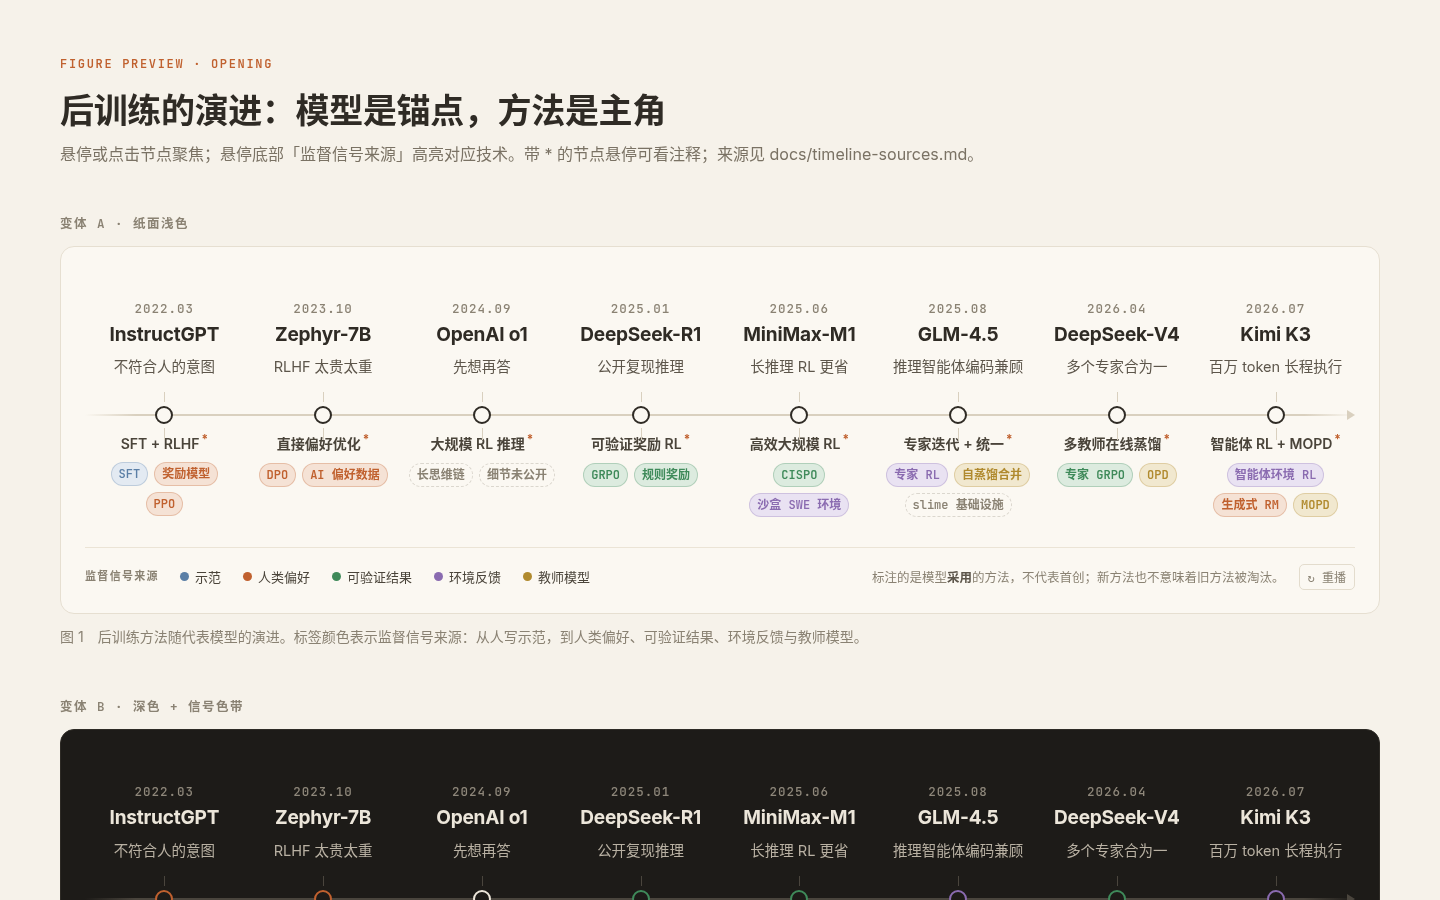
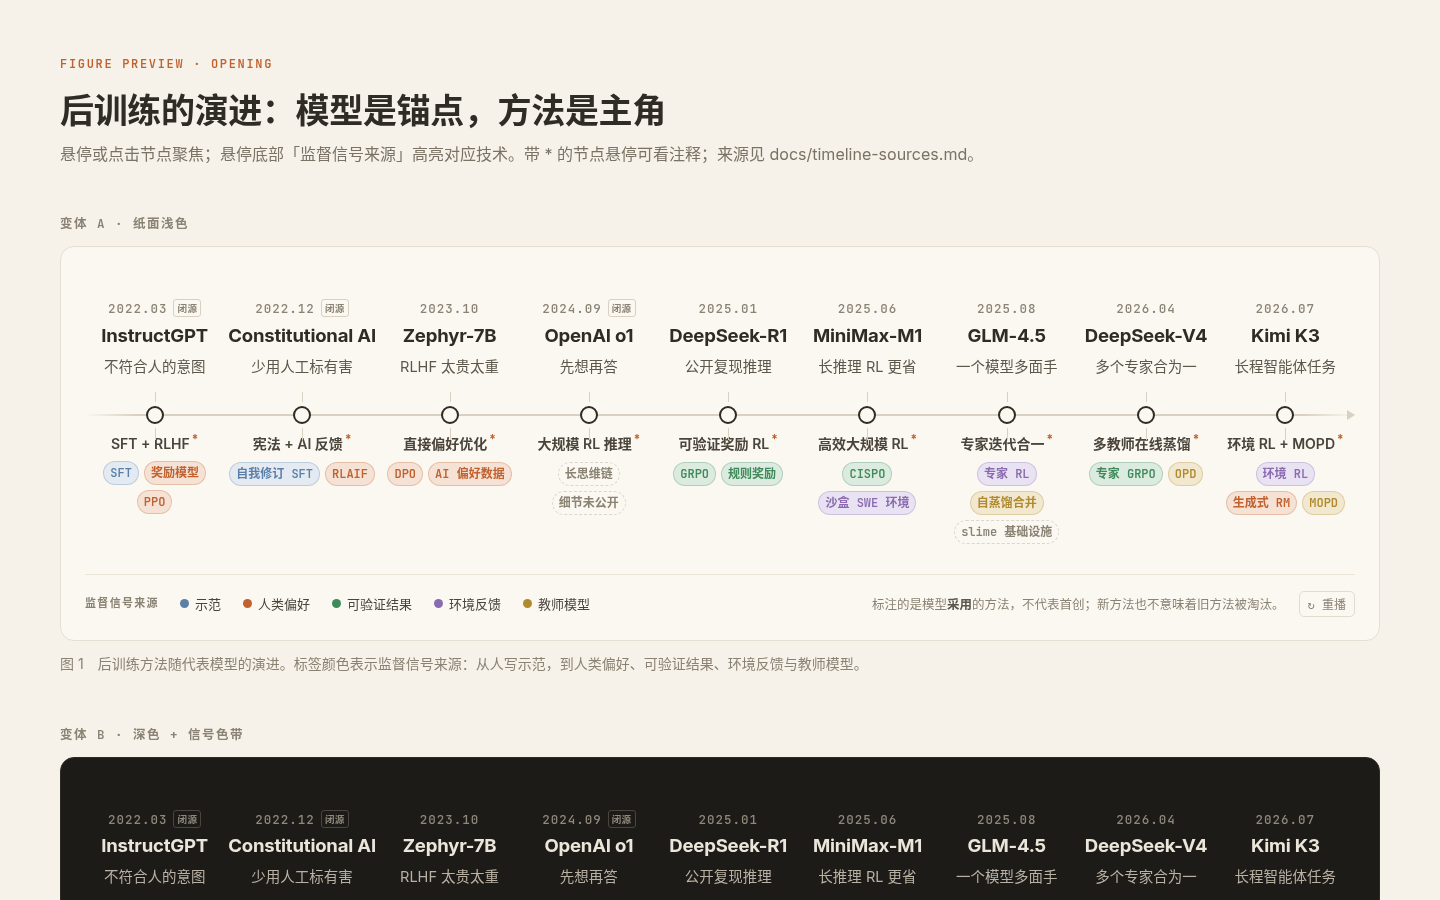
Timeline: add Constitutional AI node, closed-source marker

diff --git a/src/data/timeline.ts b/src/data/timeline.ts
@@ -8,17 +8,20 @@ export const SIGNALS: Record<Signal, { label: string; desc: string; color: strin
   teacher: { label: '教师模型', desc: '更强模型给逐 token 指导', color: '#b08a2e', soft: '#f1e8cf' },
 };
 export type Tech = { name: string; signal?: Signal };   // 无 signal = 未公开/不归类（灰色）
-export type TLNode = { id: string; model: string; date: string; problem: string; strategy: string; techs: Tech[]; note?: string };
+export type TLNode = { id: string; model: string; date: string; problem: string; strategy: string; techs: Tech[]; note?: string; closed?: boolean };  // closed = 闭源厂商公开的方法
 export const PLACEHOLDER = false;
 // 来源与引文见 docs/timeline-sources.md。标注的是该模型「采用」的方法，不是发明。
 export const NODES: TLNode[] = [
-  { id: 'instructgpt', model: 'InstructGPT', date: '2022.03', problem: '不符合人的意图', strategy: 'SFT + RLHF',
+  { id: 'instructgpt', closed: true, model: 'InstructGPT', date: '2022.03', problem: '不符合人的意图', strategy: 'SFT + RLHF',
     techs: [{ name: 'SFT', signal: 'demo' }, { name: '奖励模型', signal: 'pref' }, { name: 'PPO', signal: 'pref' }],
     note: 'RLHF 本身更早（Christiano 2017 等）；这里是它用于指令模型的代表' },
+  { id: 'cai', closed: true, model: 'Constitutional AI', date: '2022.12', problem: '少用人工标有害', strategy: '宪法 + AI 反馈',
+    techs: [{ name: '自我修订 SFT', signal: 'demo' }, { name: 'RLAIF', signal: 'pref' }],
+    note: 'Anthropic：模型按宪法原则自我批评并修订回答后做 SFT；再由模型给出偏好标签训练 PM，用 RL（RLAIF）。偏好来自 AI 而非人工' },
   { id: 'zephyr', model: 'Zephyr-7B', date: '2023.10', problem: 'RLHF 太贵太重', strategy: '直接偏好优化',
     techs: [{ name: 'DPO', signal: 'pref' }, { name: 'AI 偏好数据', signal: 'pref' }],
     note: '偏好标签由 GPT-4 打分（AI 反馈），非人工' },
-  { id: 'o1', model: 'OpenAI o1', date: '2024.09', problem: '先想再答', strategy: '大规模 RL 推理',
+  { id: 'o1', closed: true, model: 'OpenAI o1', date: '2024.09', problem: '先想再答', strategy: '大规模 RL 推理',
     techs: [{ name: '长思维链' }, { name: '细节未公开' }], note: '官方仅称用大规模 RL 训练思维链，奖励与算法未公开' },
   { id: 'r1', model: 'DeepSeek-R1', date: '2025.01', problem: '公开复现推理', strategy: '可验证奖励 RL',
     techs: [{ name: 'GRPO', signal: 'verify' }, { name: '规则奖励', signal: 'verify' }],
@@ -26,13 +29,13 @@ export const NODES: TLNode[] = [
   { id: 'm1', model: 'MiniMax-M1', date: '2025.06', problem: '长推理 RL 更省', strategy: '高效大规模 RL',
     techs: [{ name: 'CISPO', signal: 'verify' }, { name: '沙盒 SWE 环境', signal: 'env' }],
     note: 'CISPO 由 M1 报告提出：裁剪重要性采样权重而非 token 更新' },
-  { id: 'glm45', model: 'GLM-4.5', date: '2025.08', problem: '推理智能体编码兼顾', strategy: '专家迭代 + 统一',
+  { id: 'glm45', model: 'GLM-4.5', date: '2025.08', problem: '一个模型多面手', strategy: '专家迭代合一',
     techs: [{ name: '专家 RL', signal: 'env' }, { name: '自蒸馏合并', signal: 'teacher' }, { name: 'slime 基础设施' }],
     note: '先训推理/智能体/通用三类专家，再用自蒸馏（SFT 形式）合为一体；RL 基础设施 slime。灰色 = 基础设施' },
   { id: 'v4', model: 'DeepSeek-V4', date: '2026.04', problem: '多个专家合为一', strategy: '多教师在线蒸馏',
     techs: [{ name: '专家 GRPO', signal: 'verify' }, { name: 'OPD', signal: 'teacher' }],
     note: 'OPD 取代 V3.2 的混合 RL 阶段；student 优化对多教师的 reverse KL' },
-  { id: 'k3', model: 'Kimi K3', date: '2026.07', problem: '百万 token 长程执行', strategy: '智能体 RL + MOPD',
-    techs: [{ name: '智能体环境 RL', signal: 'env' }, { name: '生成式 RM', signal: 'pref' }, { name: 'MOPD', signal: 'teacher' }],
+  { id: 'k3', model: 'Kimi K3', date: '2026.07', problem: '长程智能体任务', strategy: '环境 RL + MOPD',
+    techs: [{ name: '环境 RL', signal: 'env' }, { name: '生成式 RM', signal: 'pref' }, { name: 'MOPD', signal: 'teacher' }],
     note: '可验证环境 + Agentic 生成式奖励模型（按 rubric 打分）训领域专家，再用多教师 OPD 合并' },
 ];

diff --git a/src/figs/Timeline.tsx b/src/figs/Timeline.tsx
@@ -37,7 +37,7 @@ export default function Timeline({ nodes = NODES, variant = 'A', placeholder = P
               onMouseEnter={() => setHover(nd.id)} onMouseLeave={() => setHover(null)}
               onClick={() => setPinned(p => p === nd.id ? null : nd.id)}>
               <div className="tl-top">
-                <div className="tl-date">{nd.date}</div>
+                <div className="tl-date">{nd.date}{nd.closed && <span className="tl-cl" title="闭源厂商公开的方法">闭源</span>}</div>
                 <div className={`tl-model ${placeholder ? 'ph' : ''}`}>{nd.model}</div>
                 <div className="tl-prob">{nd.problem}</div>
               </div>

diff --git a/src/figs/timeline.css b/src/figs/timeline.css
@@ -64,3 +64,6 @@
 .tl-strat{font-size:clamp(12.5px,1.02vw,14px)}
 .tl-tag{font-size:clamp(10.5px,.85vw,12px);padding:5px 7px}
 .tl-date{font-size:12px}
+.tl-cl{margin-left:6px;font:600 9.5px/1 "PingFang SC",sans-serif;letter-spacing:.05em;color:var(--mut);border:1px solid var(--line);border-radius:3px;padding:1px 3px;vertical-align:1px}
+.tl-model{font-size:clamp(14.5px,1.3vw,18.5px)}
+.tl-tags{gap:5px}.tl-tag{padding:5px 6px}

diff --git a/docs/timeline-sources.md b/docs/timeline-sources.md
@@ -1,10 +1,11 @@
-# 开场时间轴 · 来源与取舍（v3，2026-10-15）
+# 开场时间轴 · 来源与取舍（v4，2026-10-15）
 
 原则：节点是**代表模型**，标签是该模型**采用**的技术（不代表首创，也不代表淘汰旧方法）。日期取 arXiv v1 提交日或官方发布日。以下链接均于 2026-10-15 确认能打开；OpenAI 页面用 curl 会被 403，用 WebFetch 能正常读取。灰色虚线标签表示未公开的信息或基础设施，不归入任何信号来源。
 
 | # | 节点 | 日期 | 一手来源 | 依据 |
 |---|---|---|---|---|
 | 1 | InstructGPT | 2022.03 | [arXiv 2203.02155](https://arxiv.org/abs/2203.02155)，v1 2022-03-04 | 三步：示范 SFT → 比较数据训练 RM → 用 PPO 优化 RM |
+| 1b | Constitutional AI（Anthropic，闭源） | 2022.12 | [arXiv 2212.08073](https://arxiv.org/abs/2212.08073)，v1 2022-12-15；[Anthropic 官方页](https://www.anthropic.com/research/constitutional-ai-harmlessness-from-ai-feedback)；[Claude's Constitution](https://www.anthropic.com/news/claudes-constitution) | "In the supervised phase we sample from an initial model, then generate self-critiques and revisions, and then finetune the original model on revised responses. In the RL phase…use a model to evaluate which of the two samples is better, and then train a preference model from this dataset of AI preferences…'RL from AI Feedback' (RLAIF)"；人类监督只体现在一份原则列表（宪法）里 |
 | 2 | Zephyr-7B | 2023.10 | [arXiv 2310.16944](https://arxiv.org/abs/2310.16944)，v1 2023-10-25 | dDPO，偏好数据来自 AI 反馈（"requires no human annotation"） |
 | 3 | OpenAI o1 | 2024.09 | [OpenAI 博客 2024-09-12](https://openai.com/index/learning-to-reason-with-llms/) | "large-scale reinforcement learning algorithm teaches the model how to think…chain of thought"；奖励和算法未公开 |
 | 4 | DeepSeek-R1 | 2025.01 | [arXiv 2501.12948](https://arxiv.org/abs/2501.12948)，v1 2025-01-22 | GRPO + "rule-based rewards…mathematical, coding, and logical reasoning" |
@@ -24,6 +25,8 @@
 - OPD：Qwen3，[arXiv 2505.09388](https://arxiv.org/abs/2505.09388)，§4.5；[Thinking Machines 博客](https://thinkingmachines.ai/blog/on-policy-distillation/)，2025-10。
 
 ## 存疑与取舍
+- **闭源标识**：InstructGPT、Constitutional AI、o1 的日期旁有一个小「闭源」标，表示这是闭源厂商公开的方法。CAI 是一篇方法论文，不是某个具体的发布模型；论文里也没有明确说某个 Claude 版本用了完全相同的配方，所以节点名用方法名。
+- **CAI 的信号分类**：自我修订 SFT 归在「示范」类（示范是模型自己修订出来的）；RLAIF 归在「偏好」类，但偏好来自 AI，注释里写明了。
 - **MiniMax 选 M1 而不是 M2**：M2 系列报告（[arXiv 2605.26494](https://arxiv.org/abs/2605.26494)，2026-05-26）覆盖 M2 到 M2.7，用 Forge 智能体 RL 系统 + CISPO + 过程奖励 / reward-to-go。但 M2 模型的实际发布早于报告，报告里也没有给出单一日期，所以选了日期清楚、而且提出 CISPO 的 M1。
 - **GLM 选 4.5 而不是 5**：用户点名的「专家模型 + 统一蒸馏、slime」出自 GLM-4.5。GLM-4.5 的统一阶段是 SFT 形式的自蒸馏，不是 on-policy，所以标签写「自蒸馏合并」，不写 OPD。GLM-5（[arXiv 2602.15763](https://arxiv.org/abs/2602.15763)，2026-02-17）改成了 GRPO 系 RL（Reasoning → Agentic → General），最后一步是 On-Policy Cross-Stage Distillation，继续用 slime，可以替换 GLM-4.5。
 - **DeepSeek-V4 的日期**：arXiv 编号是 2606，但 v1 显示的提交日期是 2026-04-26，两者对不上，需要到 DeepSeek 官方渠道再核。
